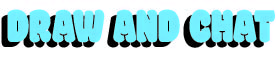
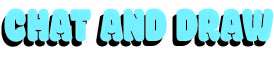
chore: updating home page styling and trying to import images

Changed region(s): [[0.0, 0.1111, 1.0, 0.6667], [0.9927, 0.1667, 1.0, 0.2222]]

diff --git a/client/components/navbar.js b/client/components/navbar.js
@@ -3,13 +3,12 @@ import PropTypes from 'prop-types'
 import {connect} from 'react-redux'
 import {Link} from 'react-router-dom'
 import {logout} from '../store'
-import {Header, Image} from 'semantic-ui-react'
+import {Header} from 'semantic-ui-react'
 // import title from '../../public/title.png'
 
 const Navbar = ({handleClick, isLoggedIn}) => (
   <Header textAlign="center">
-    {/* <Image src="../../public/title.png"/> */}
-    <h1>Draw and Chat</h1>
+    <h1>Chat and Draw</h1>
     <nav />
     <hr />
   </Header>
